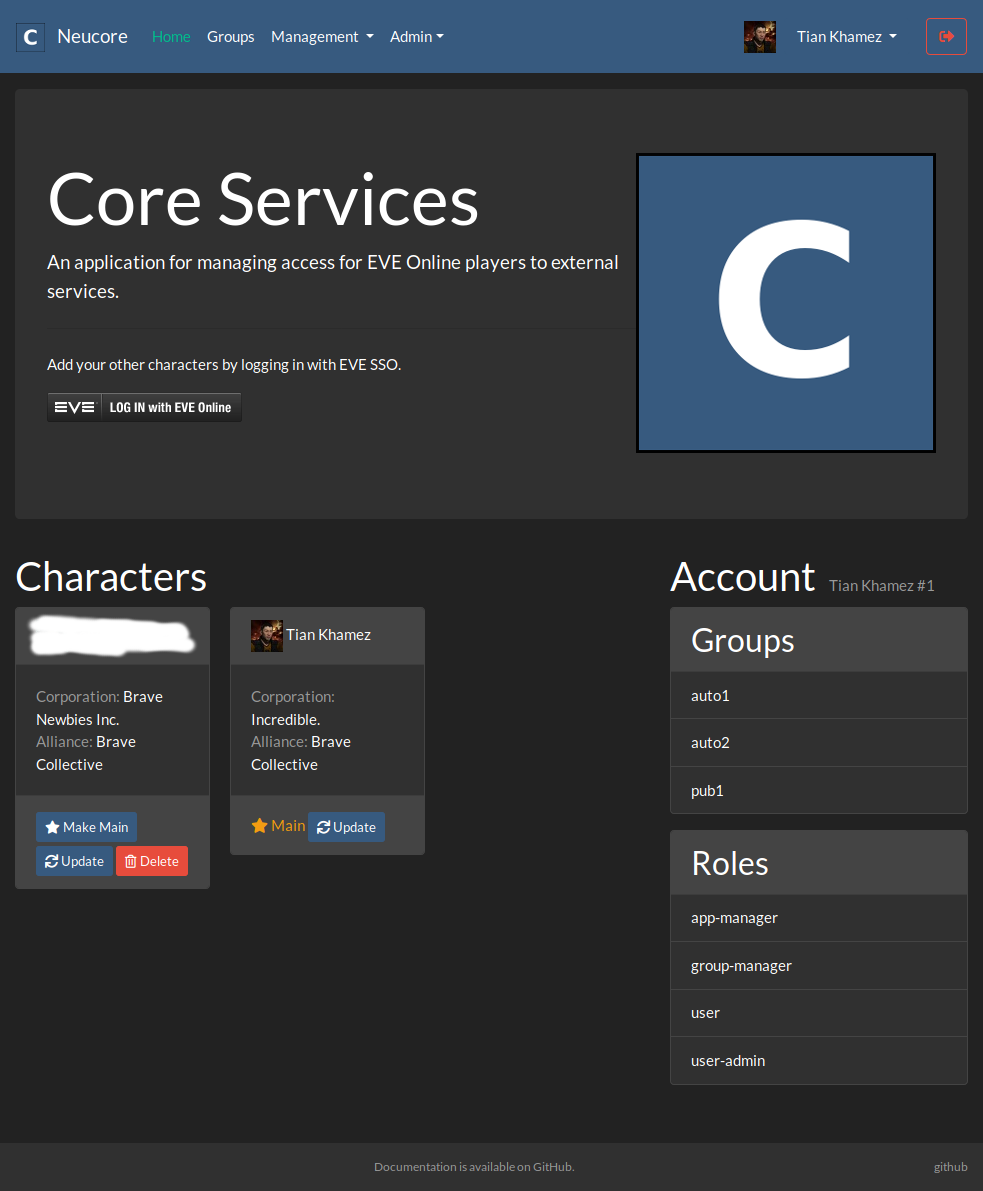
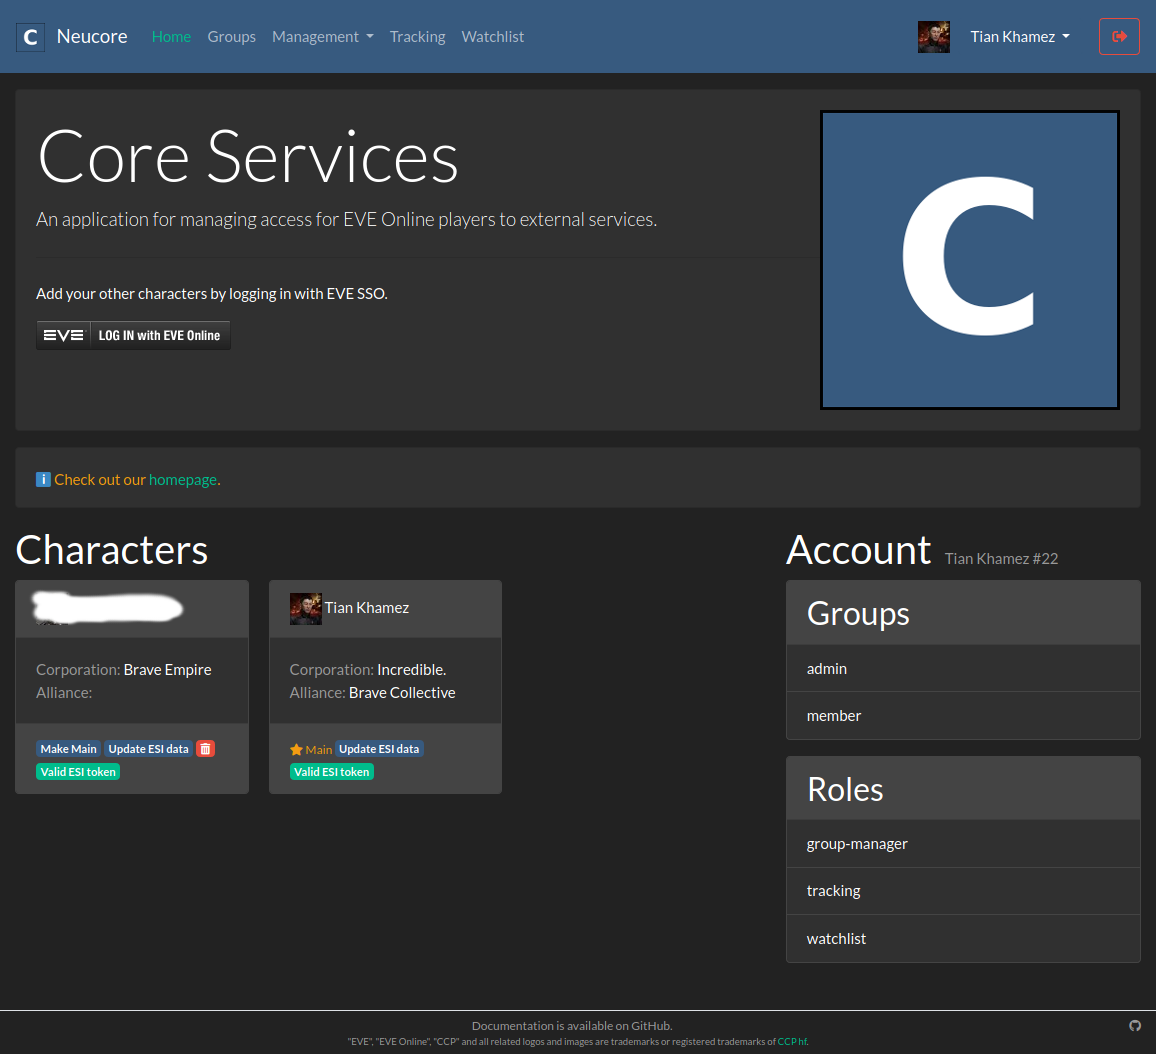
New screenshots, minimal UI changes, readme update.

diff --git a/frontend/src/pages/Home.vue b/frontend/src/pages/Home.vue
@@ -120,18 +120,19 @@
                                 <span v-if="char.main" class="small text-warning align-middle">
                                     <span class="fas fa-star"></span> Main
                                 </span>
-                                <a v-if="! char.main" class="badge badge-primary ml-1" href="#"
+                                <a v-if="! char.main" class="badge badge-primary" href="#"
                                    v-on:click.prevent="makeMain(char.id)">Make Main</a>
-                                <a class="badge badge-primary ml-1" href="#"
+                                <a class="badge badge-primary" href="#"
                                    v-on:click.prevent="update(char.id)">Update ESI data</a>
                                 <a v-if="authChar && authChar.id !== char.id
                                         && settings.allow_character_deletion === '1'"
-                                   class="badge badge-danger ml-1" href="#"
-                                   v-on:click="askDeleteChar(char.id, char.name)">Delete</a>
+                                   class="badge badge-danger"
+                                   v-on:click.prevent="askDeleteChar(char.id, char.name)"
+                                   href="#"><i class="fas fa-trash-alt"></i></a>
                                 <br>
-                                <span v-if="char.validToken" class="badge badge-success ml-1">Valid ESI token</span>
+                                <span v-if="char.validToken" class="badge badge-success">Valid ESI token</span>
                                 <span v-if="char.validToken === null"
-                                      class="badge badge-warning ml-1">No ESI token</span>
+                                      class="badge badge-warning">No ESI token</span>
                                 <button v-if="char.validToken === false"
                                         type="button" class="btn btn-danger btn-sm mt-1"
                                         data-toggle="modal" data-target="#tokenModal">
@@ -161,7 +162,7 @@
                     <div v-if="player.roles.length > 1" class="card border-secondary mb-3" >
                         <h3 class="card-header">Roles</h3>
                         <ul class="list-group list-group-flush">
-                            <li v-for="role in player.roles" class="list-group-item">
+                            <li v-if="role !== 'user'" v-for="role in player.roles" class="list-group-item">
                                 {{ role }}
                             </li>
                         </ul>

diff --git a/frontend/src/pages/UserAdmin.vue b/frontend/src/pages/UserAdmin.vue
@@ -100,7 +100,7 @@
                 <div class="card-body">
                     <select class="form-control" id="roleList"
                             v-model="activeRole" @change="getPlayerByRole(activeRole)">
-                        <option value=""> ... select a role</option>
+                        <option value="">select a role</option>
                         <option v-for="role in availableRoles">{{ role }}</option>
                     </select>
                 </div>
@@ -119,7 +119,7 @@
                 <div class="card-body">
                     <select class="form-control" id="accountList"
                             v-model="activeList" @change="getPlayers(activeList)">
-                        <option value=""> ... select a list</option>
+                        <option value="">select a list</option>
                         <option value="withCharacters">with characters</option>
                         <option value="withoutCharacters">without characters</option>
                         <option value="invalidToken">invalid token</option>

diff --git a/README.md b/README.md
@@ -20,15 +20,15 @@ of an alliance.
       - [Git](#git)
     + [Cron Job](#cron-job)
   * [First login and Customization](#first-login-and-customization)
+- [Other Installation Methods](#other-installation-methods)
   * [Using Vagrant](#using-vagrant)
   * [Using Docker](#using-docker)
   * [Deploy on Heroku](#deploy-on-heroku)
   * [Deploy on AWS Beanstalk](#deploy-on-aws-beanstalk)
-- [Final notes](#final-notes)
+- [Final Notes](#final-notes)
   * [Origin](#origin)
   * [Related Software](#related-software)
   * [Contact](#contact)
-  * [TOC](#toc)
 
 <!-- tocstop -->
 
@@ -141,6 +141,8 @@ Read the backend documentation on how to [make yourself an admin](backend/README
 then you can navigate to "Admin" -> "Settings" and change texts, links and images that are specific to your 
 installation.
 
+## Other Installation Methods
+
 ### Using Vagrant
 
 Only tested with Vagrant 2 + libvirt.
@@ -244,7 +246,7 @@ heroku buildpacks:add heroku/php
 See also [bravecollective/neucore-beanstalk](https://github.com/bravecollective/neucore-beanstalk) 
 for an example of how to deploy the pre-build releases.
 
-## Final notes
+## Final Notes
 
 ### Origin
 
@@ -270,16 +272,3 @@ This is also where the name "Neucore" comes from.
 
 If you have any questions or feedback, you can contact Tian Khamez on [Tweetfleet Slack](https://tweetfleet.slack.com)
 (get invites [here](https://www.fuzzwork.co.uk/tweetfleet-slack-invites/)).
-
-### TOC
-
-Just a quick reminder to myself of how to generate the tables of contents:
-
-```
-npm install -g markdown-toc
-markdown-toc README.md -i
-markdown-toc doc/documentation.md -i
-markdown-toc doc/API.md -i
-markdown-toc backend/README.md -i
-markdown-toc frontend/README.md -i
-```

diff --git a/doc/screenshots/README.md b/doc/screenshots/README.md
@@ -1,30 +1,35 @@
-
-Home
+#### Home
 ![home](01-home.png)
 
-Requestable Groups
+#### Requestable Groups
 ![requestable-groups](02-requestable-groups.png)
 
-Group Management, Members
+#### Group Management, Members
 ![group-mgmt-members](03-group-mgmt-members.png)
 
-Group Management, Applications - Theme Slate
+#### Group Management, Applications - Theme Slate
 ![group-mgmt-applications-theme-slate](04-group-mgmt-applications-theme-slate.png)
 
-App Management - Theme Slate
+#### App Management - Theme Slate
 ![app-mgmt-theme-slate](05-app-mgmt-theme-slate.png)
 
-Group Admin, Members
+#### Group Admin, Members
 ![group-admin-members](06-group-admin-members.png)
 
-Group Admin, Alliances - Theme Flatly
+#### Group Admin, Alliances - Theme Flatly
 ![group-admin-alliances-theme-flatly](07-group-admin-alliances-theme-flatly.png)
 
-User Admin
+#### User Admin
 ![user-admin](08-user-admin.png)
 
-System Settings
+#### System Settings
 ![system-settings](09-system-settings.png)
 
-Member Tracking - Theme Sandstorm
+#### Member Tracking - Theme Sandstorm
 ![member-tracking-theme-sandstorm](10-member-tracking-theme-sandstorm.png)
+
+#### Watchlist
+![watchlist](11-watchlist.png)
+
+#### Watchlist, Whitelist
+![watchlist-whitelist](12-watchlist-whitelist.png)
